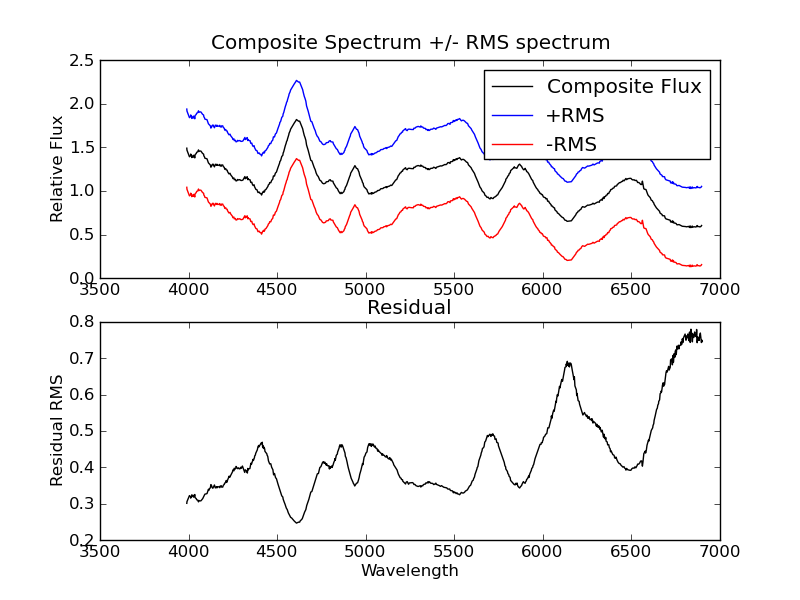
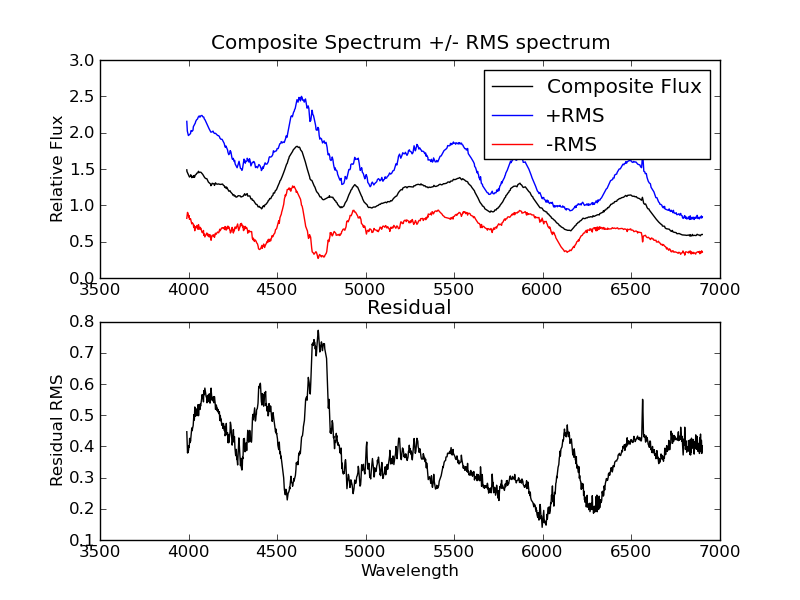
inor fixes to rms/residual

diff --git a/personal/RyanNishimoto/wk4_carbon.py b/personal/RyanNishimoto/wk4_carbon.py
@@ -4,18 +4,26 @@ import numpy as np
 import matplotlib.pyplot as plt
 import scipy.interpolate as intp
 import math
+
+
+
+#authors @nkazmi2, @nishimo1 
 #notes for Carbon +/-
 """
 Jeffery Silverman Paper:
 SNe Ia with C --> "bluer colours and lower luminosities at maximum light"
 "We concentrate on the region 5600-7800 A in order to cover the spectral range
 around Si II 6355 and C II 6580 as well as C II 7234 and O I triplet[near 7770]"
+-velocities tend to be around 12000-13000 km/s for C II 6580
+-velocities tend to be around 9500 -11500 km/s for C II 7234
 
+Folatelli et al.(2012) says a relationship between color and light-curve width was 
+shown to be steeper for objects with C
 
 
 """
 """
-Things to work on/Known issues:
+Things to work on/Known issues(wk3 code):
 -Clean by making more functions that are modular in design
 -Make code more efficient by minimizing loops and improving code design 
 (combine tasks under same loop, binary searches, etc)
@@ -35,6 +43,8 @@ def get_data(f):
 	try:
 		data.append(np.loadtxt(f))	#adds spectra data into array 
 		path.append(f[14:-4])		#adds SN path name into array
+		wave.append(data[i][:,0])
+		flux.append(data[i][:,1])
 	except ValueError:
 		junk.append(f)			#adds faulty files into array
 
@@ -55,19 +65,23 @@ this function takes a single spectra 'path' and 'data',
 the lists 'name' and 'z', and de-redshifts the wavelength
 of this particular data 
 """
-def dez(path,data,name,z):
+def dez(data,path,name,z):
 	for i in range(len(name)):				#Goes through list of names
 		if name[i] in path:				#Current name is in path list
-			print "matched SN",name[i],"to",path
-			print "z =",z[i]
-			print "...de-redshifting..."			
+			#print"redshift wavelengths:",(data[:,0])
+			#print "matched SN",name[i],"to",path
+			#print "z =",z[i]
+			#print "...de-redshifting..."			
 			for j in range(len(data)):		#Goes through each wavelength in single spectra
 				data[j,0] /= 1+z[i]		#De-redshifts the wavelength 
+			#print"de-redshifted values:",(data[:,0]),"\n"
 			break	
 
 	
 #Reads in files and stats 
 #Initializes variables
+
+carbon = np.loadtxt('wk4_carbon.txt',dtype = str)
 
 files = glob.glob ('../../data/cfa/*/*.flm')	#array of files
 stats = np.genfromtxt('../../data/cfa/cfasnIa_param.dat',dtype = None)	#stats of SNe
@@ -81,75 +95,118 @@ path = []	#holds pathname of files
 wave = []	#holds wavelengths			
 flux = []	#holds flux
 
-num = 30		#measure num spectra
+num = len(carbon)		#measure num spectra
 wave_min = 0	
 wave_max = 10000
+
 
 ###########################
 print "===================="
 print "There are",len(files),"files to read"
 print "There are",len(stats),"Supernovae with stats"
+print "There are",len(carbon),"Carbon positive Supernovae we want"
 print "===================="
+print "reading in data..."
+print "checking for corrupt files..."
 ###########################
+count = [0]*len(carbon)
 
-#loop for getting data and de-redshifting
-for i in range(num):
-	print"=== Data #",i,"==="
+#for each file, find the matching SN, record the number of spectra for that SN, and extract
+#Wavelength/Flux for each one
+for file in files:
+	for i in range(len(carbon)):
+		if carbon[i] in file:
+			try:
+				#print "adding",carbon[i],"data:\n",file[14:-4]
+				data.append(np.loadtxt(file))	#adds spectra data into array 
+				path.append(file[14:-4])		#adds SN path name into array
+				count[i] += 1
+			except ValueError:
+				#print "poop file",file
+				junk.append(file)			#adds faulty files into array
 
-	#read in data
-	get_data(files[i])	#gets pathname, wavelength, and flux from files
-	get_stats(stats[i])	#gets name and z-value from stats file
-	#de-redshift data
+print "\nsearch complete"		
+print "===================="
+print "found",len(data),"files to read"
+print "found",len(junk),"corrupt files"
+print "===================="
+print "file breakdown"
+print "===================="
+for i in range(len(carbon)):
+	print carbon[i],"has",count[i],"files"
+print "\ntrimming the fat...(removing SNe with no files)"
 
-	print "working on path ",path[i]
-	print "orig wavelengths", data[i][:,0]
+carbon_new = []
+count_new = []
+for i in range(len(count)):
+	if (count[i] != 0):
+		carbon_new.append(carbon[i])
+		count_new.append(count[i])
 
-	dez(path[i],data[i],name,z)
+print "searching for relevant SNe statistics...\n"
+#for each row of stats, find the corresponding redshift and add it to an array
+for stat in stats:
+	for i in range(len(carbon_new)):
+		if carbon_new[i] in stat[0]:
+			print carbon_new[i],"=",stat[0],"with z =",stat[1]
+			z.append(stat[1])
 
-	print "new wavelengths",data[i][:,0]
 
-	wave.append(data[i][:,0])
-	flux.append(data[i][:,1])
 
+"""
+~Sanity Check~  The files we currently have:
+
+carbon_new	length 18	contains names of SN we want
+count_new	length 18	contains the integer number of files per SN
+z		length 18	contains redshift data
+
+data		length 211	contains wavelength and flux
+path		length 211	contains path to data
+
+"""
+#de-redshifting data
+for i in range(len(data)):
+	
+	dez(data[i],path[i],carbon_new,z)
+	
+
+
+num = len(data)
 print "\ncalculating min/max from:",wave_min,wave_max
 print "===================="
 for i in range(num):
-	print "waves #",i
+	#print "waves #",i
 	if data[i][0][0] > wave_min:
-		print data[i][0][0],">",wave_min,"\n-->","new min = ",data[i][0][0]
+		#print data[i][0][0],">",wave_min,"\n-->","new min = ",data[i][0][0]
 		wave_min = int(data[i][0][0])
 	if data[i][-1][0] < wave_max:
-		print data[i][-1][0],"<",wave_max,"\n-->","new max = ",data[i][-1][0]
+		#print data[i][-1][0],"<",wave_max,"\n-->","new max = ",data[i][-1][0]
 		wave_max = int(data[i][-1][0])
-		
 
 
-print "\nusing min:",wave_min
-print "using max:",wave_max
-"""
-Experienced Errors with truncation due to not exact values when finding indices;
-fixed by interpolation
 
-for i in range(num):
-	print "\ntruncating data #",i
-	print wave[i]
-	low = np.where(np.logical_and(wave[i] > wave_min-1,wave[i] < wave_min+1))[0]
-	print "minimum wave",wave_min,"at index",low
-	high = np.where(np.logical_and(wave[i] > wave_max-1,wave[i] < wave_max+1))[0]
-	print "maximum wave",wave_max,"at index",high
-	wave[i] = wave[i][low:high]
-	flux[i] = flux[i][low:high]
-"""
+print "\nhighest minimum:",wave_min
+print "lowest maximum:",wave_max
+
+wave_min -= (wave_min % 10)
+wave_max -= (wave_max % 10)
+print "\nusing pretty min:",wave_min 
+print "using pretty max:",wave_max 
+
+
 print "\nCreating linspace from",wave_min,"to",wave_max,"with",(wave_max-wave_min),"points"
 #creates space for wavelengths given min/max parameters
-wavelengths = np.linspace(wave_min,wave_max,(wave_max-wave_min))
+wavelengths = np.linspace(wave_min,wave_max,(wave_max-wave_min+1))
 
+print "plots will have data at these wavelength values:",wavelengths
 
 #Interpolating
 fit = []
 fit_flux = []
+
+
 for i in range(num):
-	spline = intp.splrep(wave[i],flux[i])
+	spline = intp.splrep(data[i][:,0],data[i][:,1])
 	curr_flux = intp.splev(wavelengths, spline)
 	curr_flux /= np.median(curr_flux)
 	fit.append([wavelengths,curr_flux])
@@ -158,19 +215,20 @@ for i in range(num):
 
 avg_flux = sum(fit_flux)/num
 
+
 res_flux = []
 #residual and RMS 
 for i in range(num):
 	res_flux.append(fit_flux[i]-avg_flux)
 
-rms = np.sqrt(np.mean(np.power(res_flux,2)))
+rms = np.sqrt(np.mean(np.square(res_flux),axis = 0))
 pos = avg_flux + rms
 neg = avg_flux - rms
 scatter = np.divide(rms,avg_flux)
 
 ############################
 print "===================="
-print "finished"
+print "calculations finished"
 print "plotting..."
 print "===================="
 ############################
@@ -191,6 +249,6 @@ bottom.plot(wavelengths,scatter, 'k')
 plt.title('Residual')
 plt.xlabel('Wavelength')
 plt.ylabel('Residual RMS')
-plt.savefig('Composite_Spectra.png')
+plt.savefig('Carbon.png')
 plt.show()
 
